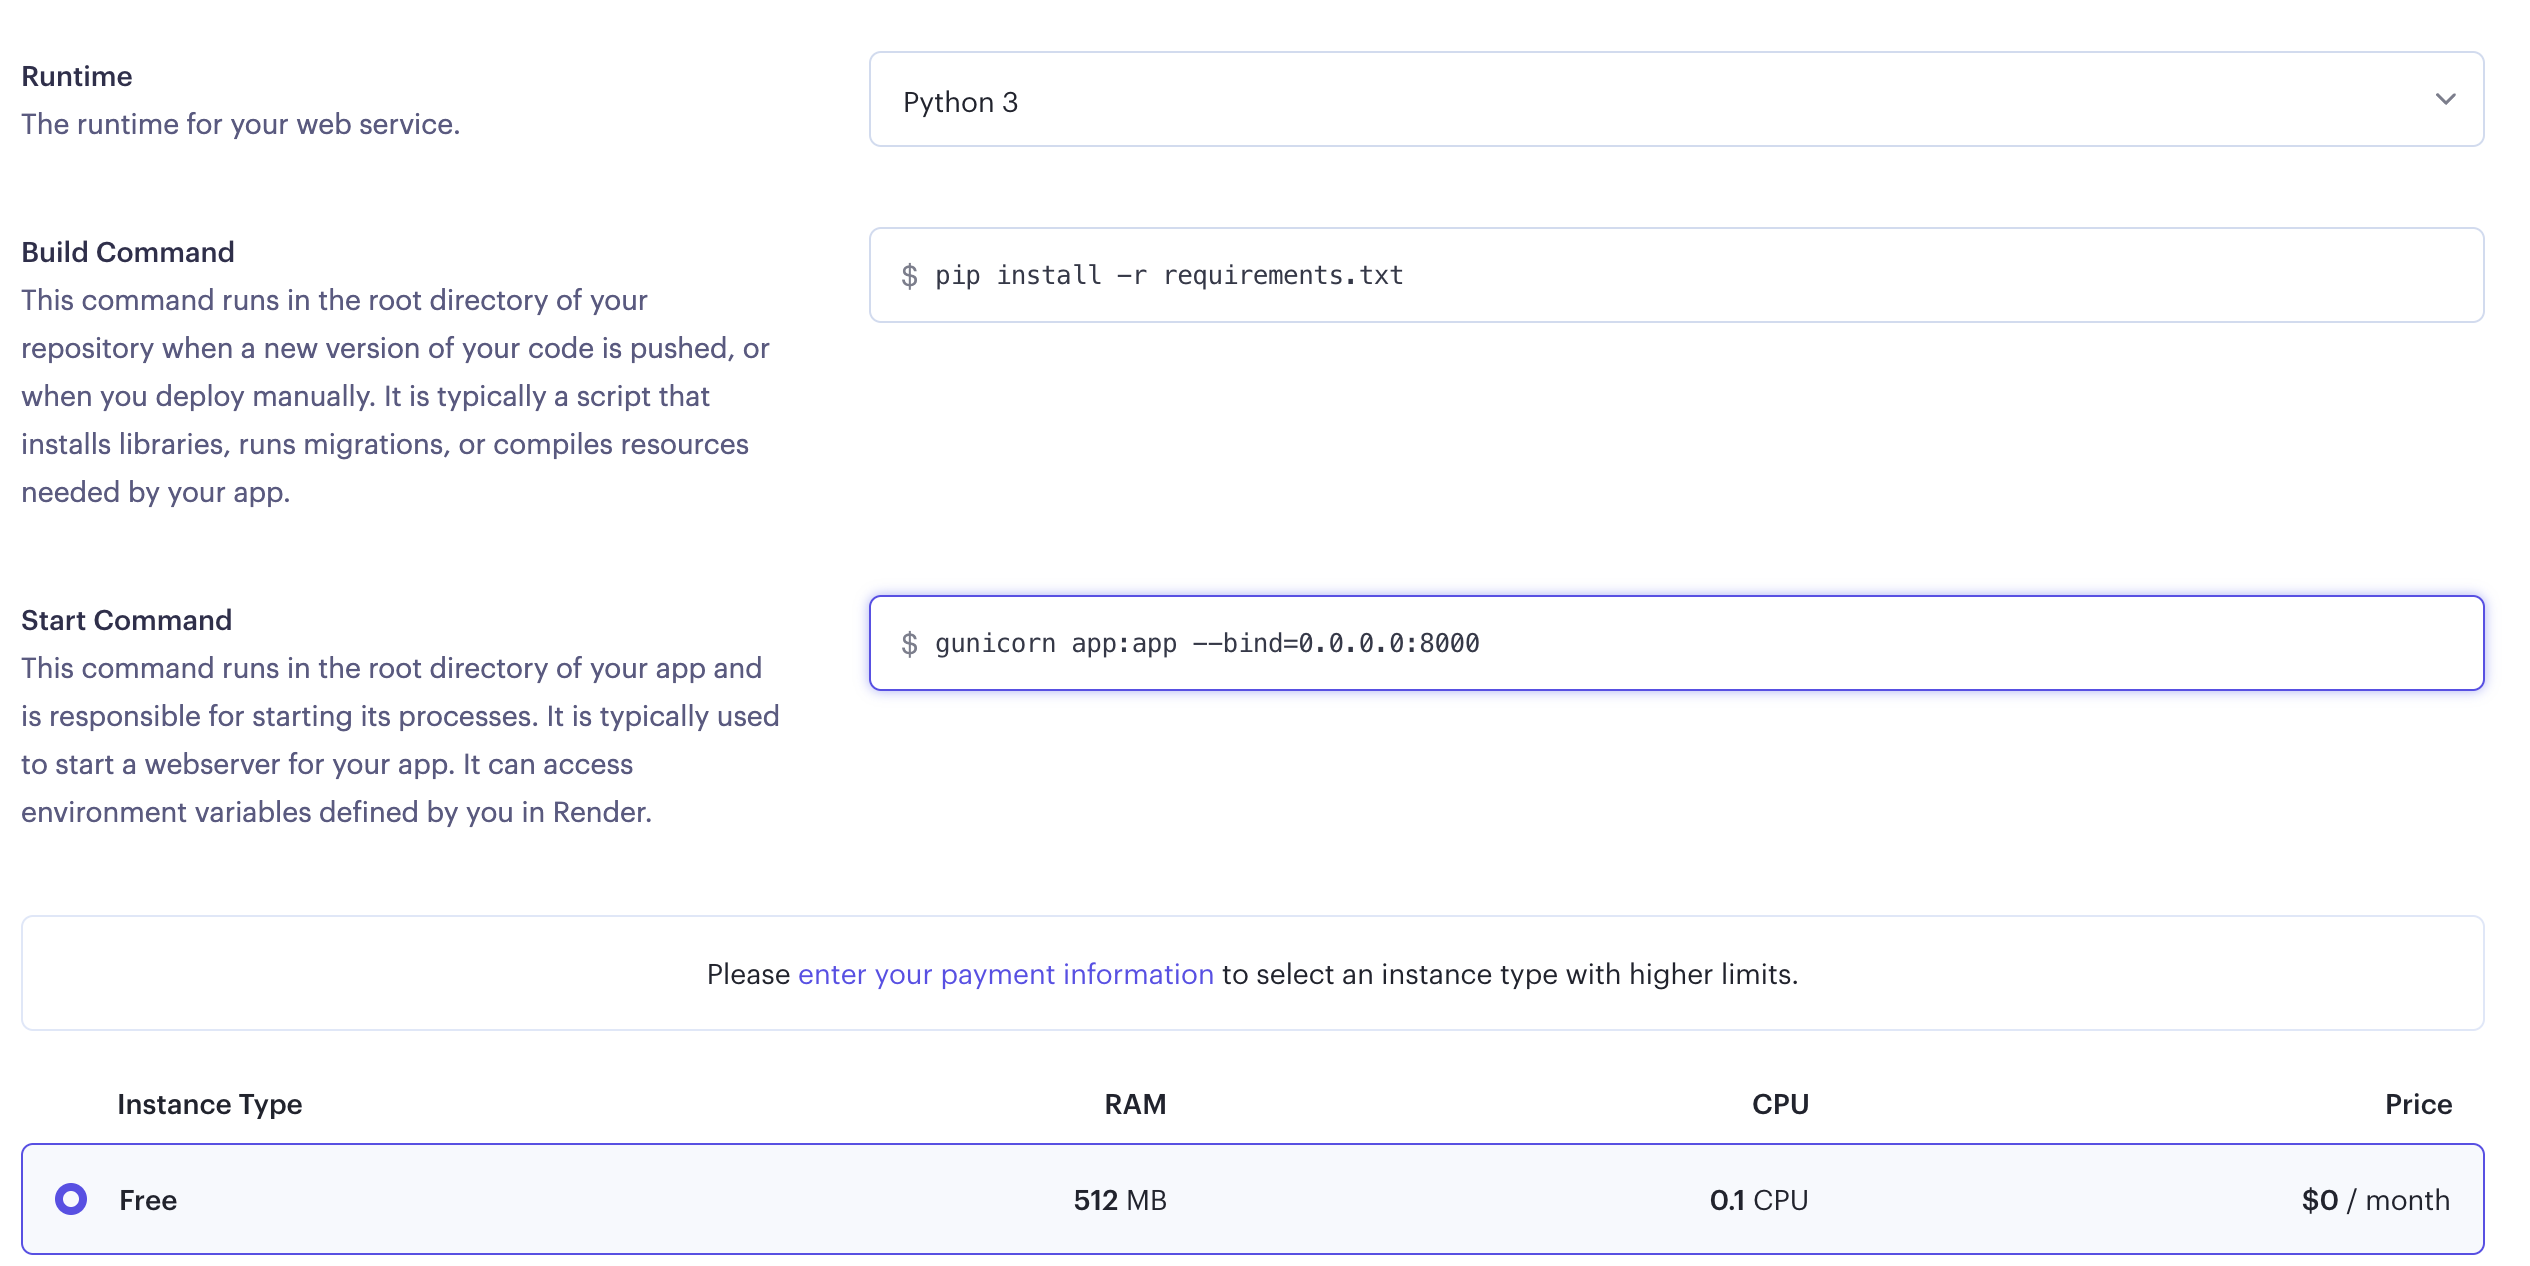
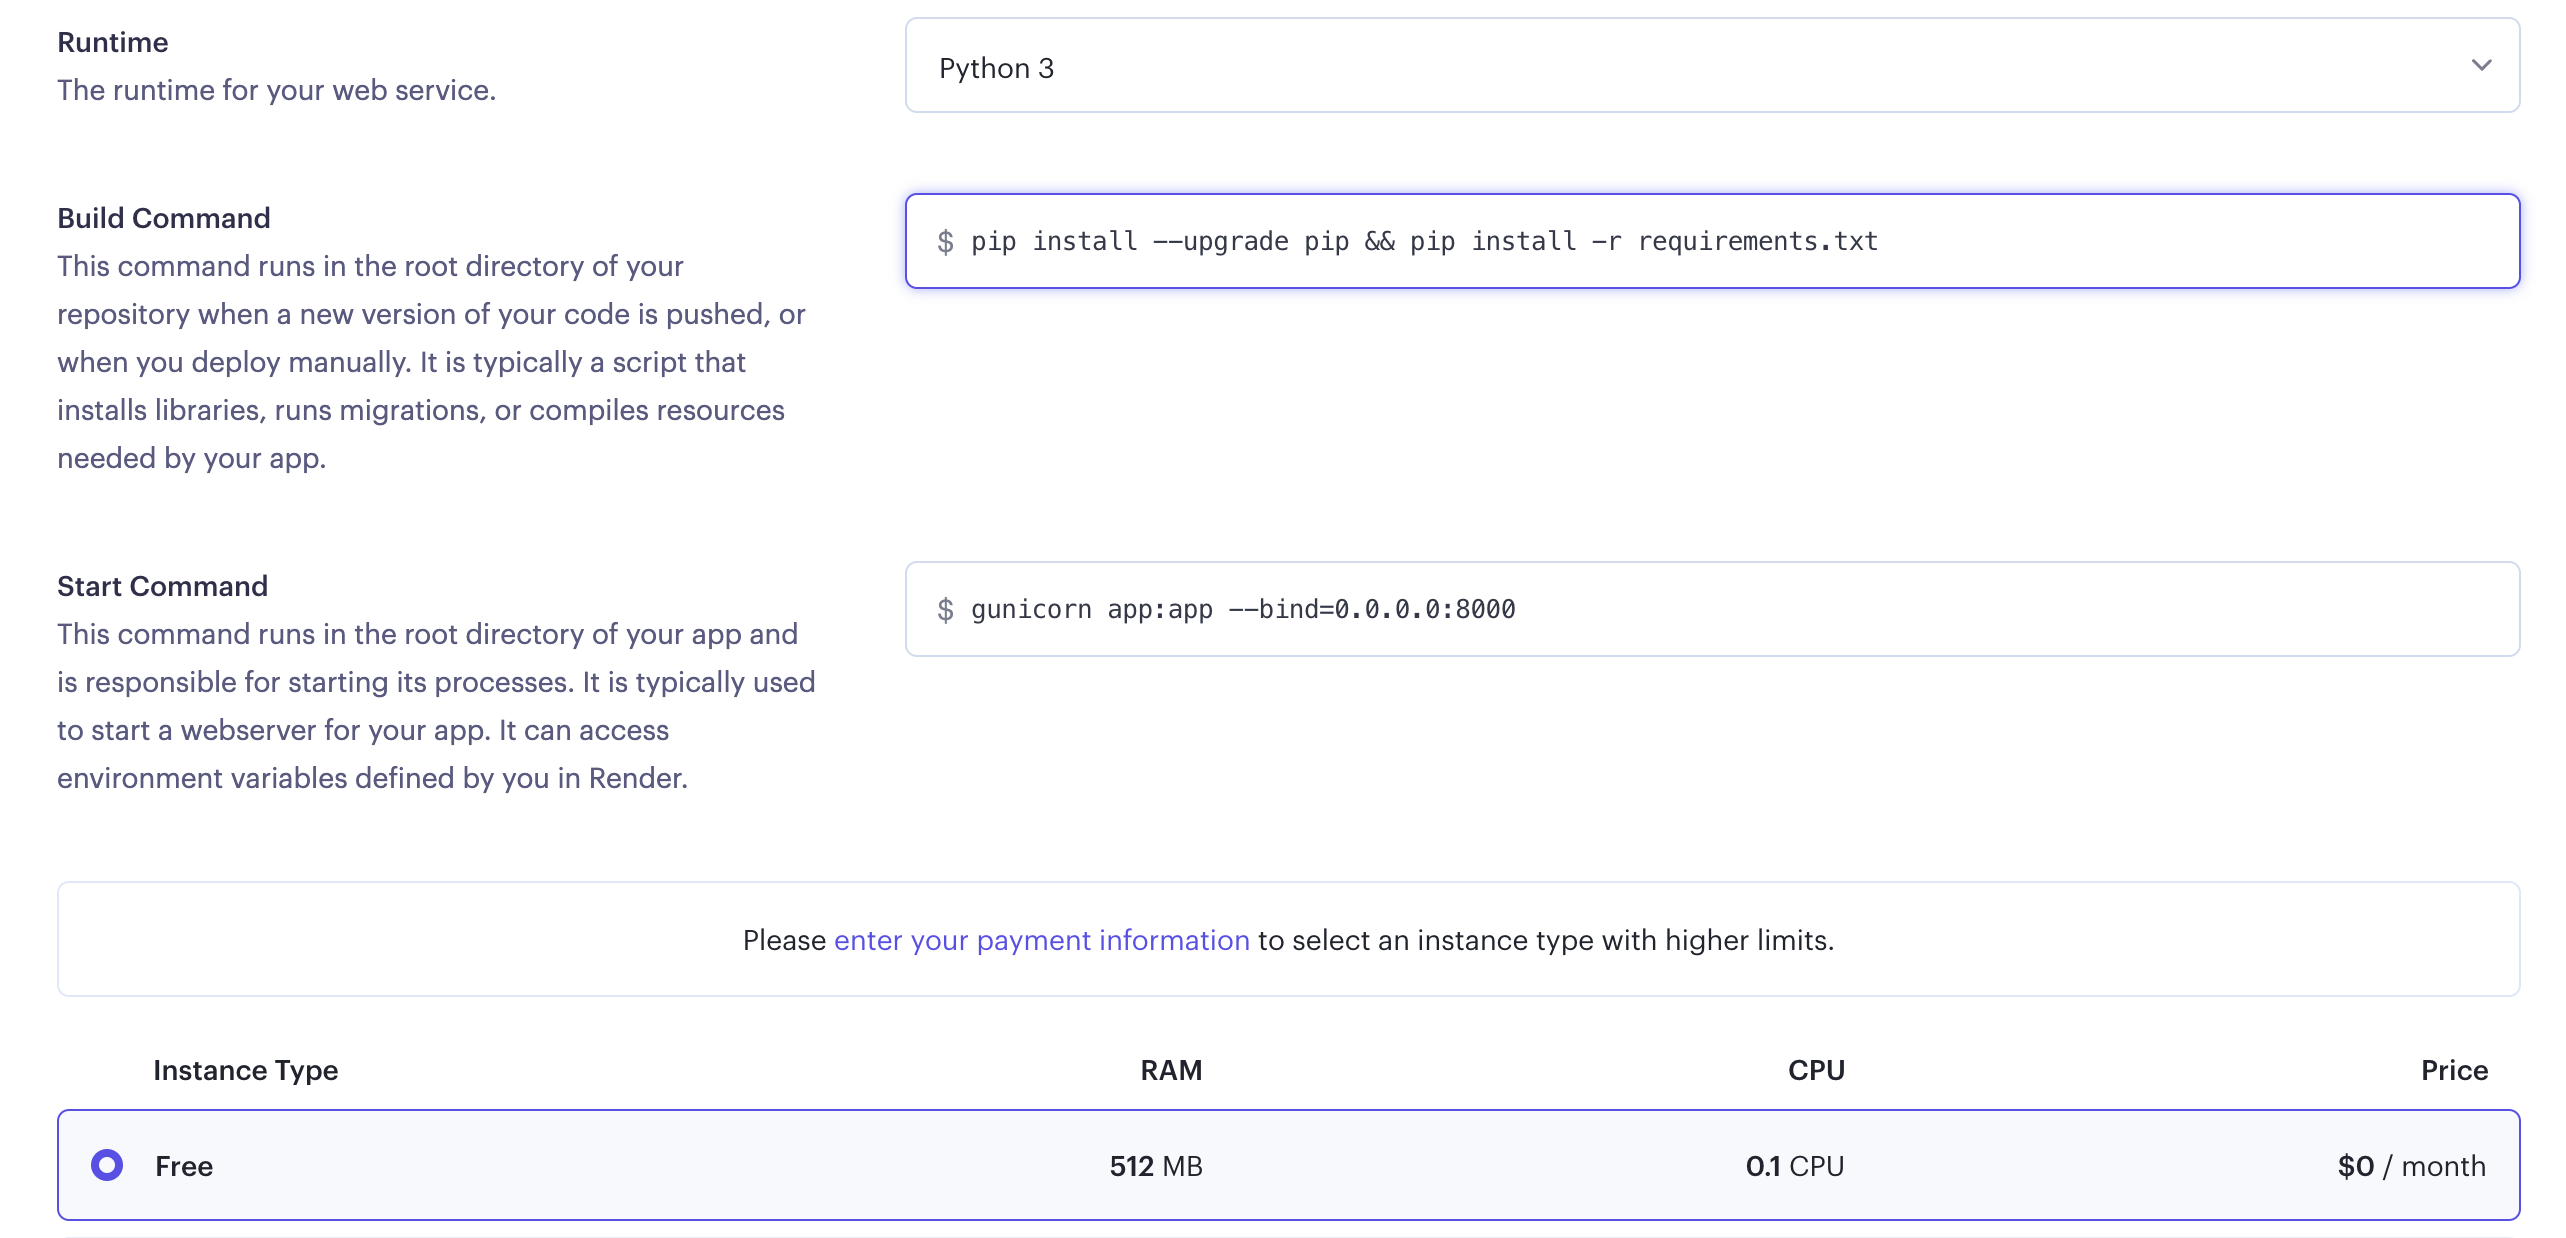
update requirements

diff --git a/README.md b/README.md
@@ -20,7 +20,7 @@ Free Hosting Services
 $ cd XX/XX  ## change directory 
 $ python3 -m venv my_env  ## create virtual environment
 $ source my_env/bin/activate  ## activate virtual environment
-(my_env) $ pip install flask==2.2 gensim==4.0 pythainlp==3.0 gunicorn ## install libaries
+(my_env) $ pip install flask gensim pythainlp gunicorn ## install libaries
 ~~~
 
 write the list of packages to `requirements.txt`
@@ -113,7 +113,9 @@ WARNING: This is a development server. Do not use it in a production deployment.
 
 <img src="img/render/render_deploy1.png" style="width:500px"><br>
 
-set `Start Command` as `gunicorn app:app --bind=0.0.0.0:8000`
+
+- set `Build Command` as `pip install --upgrade pip && pip install -r requirements.txt`
+- set `Start Command` as `gunicorn app:app --bind=0.0.0.0:8000`
 
 <img src="img/render/render_deploy2.png" style="width:500px"><br>
 
